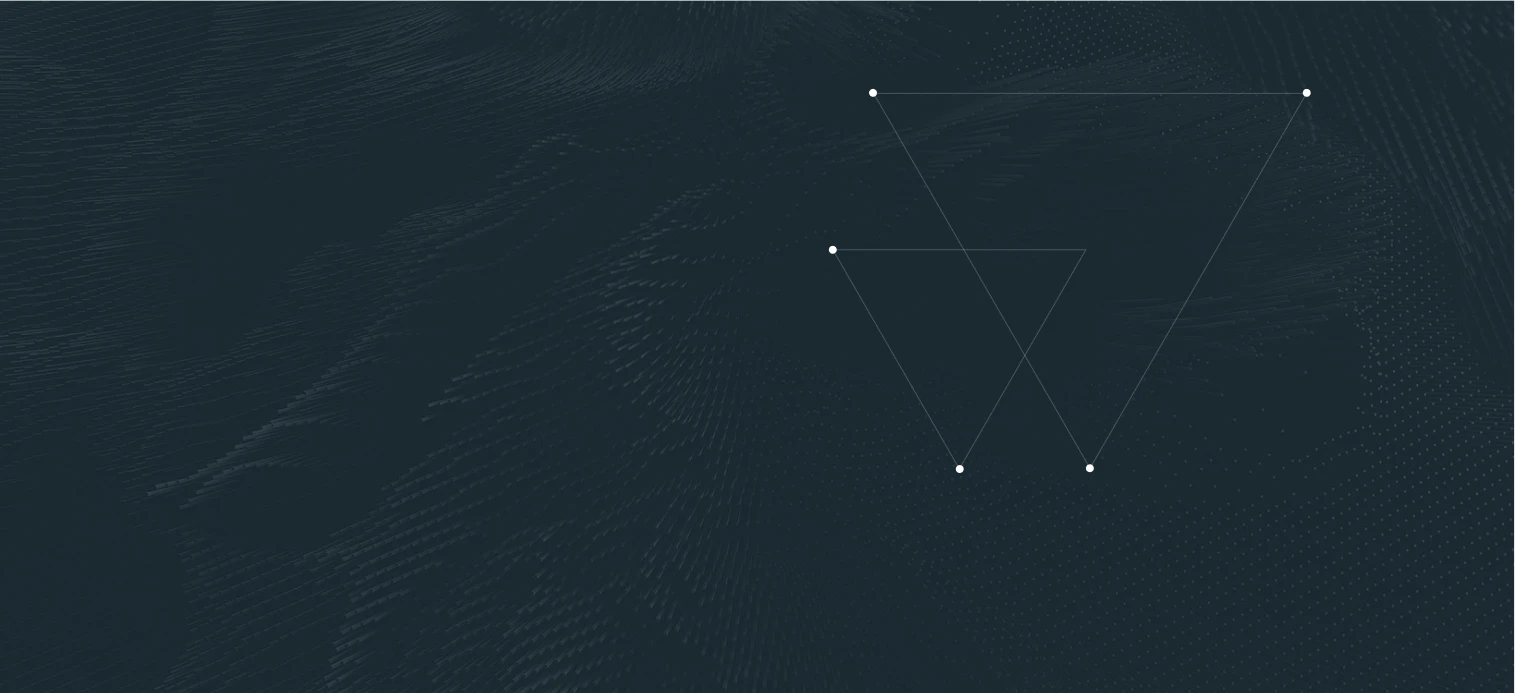
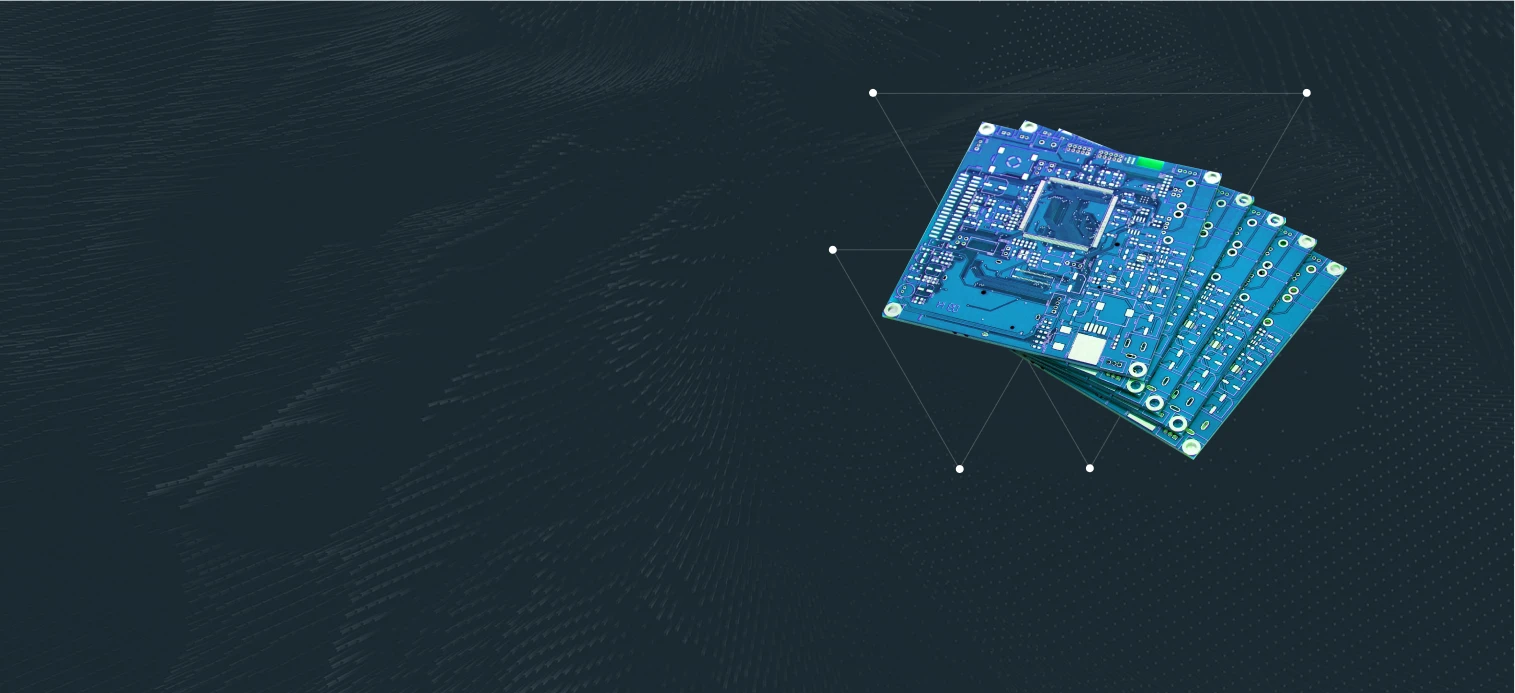
делает адаптив под планшет

Changed region(s): [[0.5584, 0.1818, 0.8997, 0.6667]]

diff --git a/build/css/style.min.css b/build/css/style.min.css
@@ -1,2 +1,2 @@
-*,::after,::before{-webkit-box-sizing:border-box;box-sizing:border-box}body{margin:0 auto;padding:0;font-family:"PT Mono",monospace,sans-serif;background-color:#fff}.visually-hidden{position:absolute;width:1px;height:1px;padding:0;clip:rect(1px,1px,1px,1px);border:0;overflow:hidden}@font-face{font-family:"PT Mono";font-weight:400;font-display:swap;src:url(../fonts/PTMono-Regular.woff) format("woff"),url(../fonts/PTMono-Regular.woff2) format("woff2")}@font-face{font-family:"Roboto Condensed";font-weight:700;font-display:swap;src:url(../fonts/RobotoCondensed-Bold.woff) format("woff"),url(../fonts/RobotoCondensed-Bold.woff2) format("woff2")}@font-face{font-family:"Roboto Condensed";font-weight:400;font-display:swap;src:url(../fonts/RobotoCondensed-Regular.woff) format("woff"),url(../fonts/RobotoCondensed-Regular.woff2) format("woff2")}.link-mixin{text-decoration:none;color:#fff}.desktop-wrapper{padding:0 calc(50% - 705px)}.page-header,.page-header-contacts-wrapper{display:-webkit-box;display:-ms-flexbox;display:flex}.page-header{min-height:878px;-webkit-box-orient:vertical;-webkit-box-direction:normal;-ms-flex-direction:column;flex-direction:column;padding:35px 10px;background-image:url(../img/header-bg@1x.jpg);background-position:center 0}.page-header__logo{position:relative;margin-right:auto;padding-top:4px;padding-left:66px}.page-header__logo-icon{position:absolute;left:0;top:-2px}.page-header__logo-title{margin:0;font-family:"Roboto Condensed";font-weight:700;font-size:25px;line-height:28px;white-space:nowrap;color:#fff}.page-header__logo-caption{font-family:"Roboto";font-style:normal;font-weight:500;font-size:12px;line-height:14px;color:#788891}.page-header__contacts,.page-header__contacts-link{display:-webkit-box;display:-ms-flexbox;display:flex}.page-header__contacts{-webkit-box-align:center;-ms-flex-align:center;align-items:center}.page-header__contacts-link{margin-left:88px}.page-header__contacts-info{margin-left:16px}.page-header__contacts-call{display:block;margin-left:49px;padding:14px 32px;font-family:"Roboto Condensed";font-style:normal;font-weight:700;font-size:14px;line-height:16px;border:1px solid #fff;border-radius:6px}.promo{position:relative;margin-top:231px}.promo__description,.promo__title{max-width:720px;font-style:normal;color:#fff}.promo__title{margin:0 0 26px;letter-spacing:.07em;font-family:"Roboto Condensed";font-weight:700;font-size:80px;line-height:94px}.promo__description{position:relative;margin-top:0;margin-right:auto;margin-bottom:43px;padding-left:92px;font-family:"PT Mono";font-weight:400;font-size:22px;line-height:34px}.promo__description::before{content:"";position:absolute;top:17px;left:0;width:66px;height:2px;background-color:#fff}.promo__button{margin-left:92px;padding:18px 45px;font-family:"Roboto Condensed";font-style:normal;font-weight:700;font-size:16px;line-height:19px;text-align:center;letter-spacing:.05em;color:#fff;background-color:#00b2ff;border:0;border-radius:3px}.promo__image{position:absolute;top:-58px;right:-72px}
+*,::after,::before{-webkit-box-sizing:border-box;box-sizing:border-box}body{margin:0 auto;padding:0;font-family:"PT Mono",monospace,sans-serif;background-color:#fff}.visually-hidden{position:absolute;width:1px;height:1px;padding:0;clip:rect(1px,1px,1px,1px);border:0;overflow:hidden}@font-face{font-family:"PT Mono";font-weight:400;font-display:swap;src:url(../fonts/PTMono-Regular.woff) format("woff"),url(../fonts/PTMono-Regular.woff2) format("woff2")}@font-face{font-family:"Roboto Condensed";font-weight:700;font-display:swap;src:url(../fonts/RobotoCondensed-Bold.woff) format("woff"),url(../fonts/RobotoCondensed-Bold.woff2) format("woff2")}@font-face{font-family:"Roboto Condensed";font-weight:400;font-display:swap;src:url(../fonts/RobotoCondensed-Regular.woff) format("woff"),url(../fonts/RobotoCondensed-Regular.woff2) format("woff2")}.link-mixin{text-decoration:none;color:#fff}.desktop-wrapper{padding:0 calc(50% - 705px)}.page-header,.page-header-contacts-wrapper{display:-webkit-box;display:-ms-flexbox;display:flex}.page-header{min-height:878px;-webkit-box-orient:vertical;-webkit-box-direction:normal;-ms-flex-direction:column;flex-direction:column;padding:35px 10px;background-image:url(../img/header-bg-desktop@1x.jpg);background-position:center 0}@media (-webkit-min-device-pixel-ratio:1.5),(min-resolution:144dpi),(min-resolution:1.5dppx){.page-header{background-image:url(../img/header-bg-desktop@2x.jpg);background-size:1920px auto;background-position:center 0}}.page-header__logo{position:relative;margin-right:auto;padding-top:4px;padding-left:65px}.page-header__logo-icon{position:absolute;left:0;top:-2px}.page-header__contacts-icon-wrapper{font-size:0}.page-header__logo-title{margin:0;font-family:"Roboto Condensed";font-weight:700;font-size:25px;line-height:29px;white-space:nowrap;color:#fff}.page-header__logo-caption{font-family:"Roboto";font-style:normal;font-weight:500;font-size:12px;line-height:14px;color:#788891}.page-header__contacts,.page-header__contacts-link{display:-webkit-box;display:-ms-flexbox;display:flex}.page-header__contacts{-webkit-box-align:center;-ms-flex-align:center;align-items:center}.page-header__contacts-link{margin-left:88px}.page-header__contacts-info{margin-left:16px;font-family:"PT Mono";font-style:normal;font-weight:400;font-size:16px;line-height:18px}.page-header__contacts-call{display:block;margin-left:49px;padding:14px 27px;font-family:"Roboto Condensed";font-style:normal;font-weight:700;font-size:14px;line-height:16px;letter-spacing:.05em;border:1px solid #fff;border-radius:6px}@media (max-width:1024px){.page-header{padding:19px 23px;background-image:url(../img/header-bg-tablet@1x.jpg);background-position:center 0}.page-header__contacts-call,.page-header__contacts-info{display:none}.page-header__contacts-icon{width:25px;height:auto}.page-header__contacts-link{margin-left:32px}.page-header__logo{padding-top:6px;padding-left:70px}}.promo{position:relative;margin-top:231px}.promo__description,.promo__title{max-width:720px;font-style:normal;color:#fff}.promo__title{margin:0 0 26px;letter-spacing:.07em;font-family:"Roboto Condensed";font-weight:700;font-size:80px;line-height:94px}.promo__description{position:relative;margin-top:0;margin-right:auto;margin-bottom:43px;padding-left:92px;font-family:"PT Mono";font-weight:400;font-size:22px;line-height:34px}.promo__description::before{content:"";position:absolute;top:17px;left:0;width:66px;height:2px;background-color:#fff}.promo__button{margin-left:92px;padding:18px 45px;font-family:"Roboto Condensed";font-style:normal;font-weight:700;font-size:16px;line-height:19px;text-align:center;letter-spacing:.05em;color:#fff;background-color:#00b2ff;border:0;border-radius:3px}.promo__button:hover{-webkit-box-shadow:0 0 3px 3px #fafafa;box-shadow:0 0 3px 3px #fafafa}.promo__image{position:absolute;top:-58px;right:-72px}@media (max-width:1024px){.promo{margin-top:118px}.promo__title{max-width:545px;padding-left:65px;font-size:60px;line-height:70px}.promo__description{max-width:545px;margin-left:65px;margin-bottom:56px;padding-left:50px;font-size:18px;line-height:156.8%}.promo__description::before{width:32px}.promo__button{margin-left:116px;padding:18px 31px}}
 /*# sourceMappingURL=style.min.css.map */

diff --git a/build/index.html b/build/index.html
@@ -63,8 +63,8 @@
     <h1 class="visually-hidden">шапка страницы</h1>
     <div class="page-header-contacts-wrapper desktop-wrapper">
       <div class="page-header__logo">
-        <span class="page-header__logo-icon">
-          <svg width="52" height="52">
+        <span class="page-header__logo-icon-wrapper">
+          <svg class="page-header__logo-icon" width="52" height="52">
             <use xlink:href="#icon-mind"></use>
           </svg>
         </span>
@@ -74,16 +74,16 @@
 
       <section class="page-header__contacts">
         <a class="page-header__contacts-link page-header__contacts-link--mail link-mixin" href="mailto:info@sd.ru">
-          <span class="page-header__contacts-icon">
-            <svg width="18" height="14">
+          <span class="page-header__contacts-icon-wrapper">
+            <svg class="page-header__contacts-icon" width="18" height="18">
               <use xlink:href="#icon-mail"></use>
             </svg>
           </span>
           <span class="page-header__contacts-info">info@sd.ru</span>
         </a>
         <a class="page-header__contacts-link page-header__contacts-link--tel link-mixin" href="tel:+74950005252">
-          <span class="page-header__contacts-icon">
-            <svg width="18" height="18">
+          <span class="page-header__contacts-icon-wrapper">
+            <svg class="page-header__contacts-icon" width="18" height="18">
               <use xlink:href="#icon-tel"></use>
             </svg>
           </span>
@@ -97,7 +97,7 @@
       <h2 class="promo__title">ПЕЧАТНЫЕ ПЛАТЫ</h2>
       <p class="promo__description">производство и монтаж, поставка комплектующих, блоков и модулей</p>
       <button class="promo__button" type="button">ПОЛУЧИТЬ БЕСПЛАТНУЮ КОНСУЛЬТАЦИЮ</button>
-      <picture>
+      <!-- <picture>
         <source type="image/webp" media="(min-width: 1150px)" srcset="./img/microplate-desktop@1x.webp, ./img/microplate-desktop@2x.webp 2x">
         <source type="image/webp" media="(min-width: 768px)" srcset="./img/microplate-tablet@1x.webp, ./img/microplate-tablet@2x.webp 2x">
         <source type="image/webp" media="(min-width: 320px)" srcset="./img/microplate-mobile@1x.webp, ./img/microplate-mobile@2x.webp 2x">
@@ -107,8 +107,8 @@
         <source media="(min-width: 320px)" srcset="./img/microplate-mobile@1x.jpg, ./img/microplate-mobile@2x.jpg 2x">
         <img class="promo__image" src="./img/microplate-desktop@1x.jpg" alt="microplate">
       </picture>
-    </section>
-  </header>
+    </section> -->
+  </section></header>
 
   <script src="./js/main.js"></script>
 </body>

diff --git a/source/index.html b/source/index.html
@@ -16,8 +16,8 @@
     <h1 class="visually-hidden">шапка страницы</h1>
     <div class="page-header-contacts-wrapper desktop-wrapper">
       <div class="page-header__logo">
-        <span class="page-header__logo-icon">
-          <svg width="52" height="52">
+        <span class="page-header__logo-icon-wrapper">
+          <svg class="page-header__logo-icon" width="52" height="52">
             <use xlink:href="#icon-mind"></use>
           </svg>
         </span>
@@ -27,16 +27,16 @@
 
       <section class="page-header__contacts">
         <a class="page-header__contacts-link page-header__contacts-link--mail link-mixin" href="mailto:info@sd.ru">
-          <span class="page-header__contacts-icon">
-            <svg width="18" height="14">
+          <span class="page-header__contacts-icon-wrapper">
+            <svg class="page-header__contacts-icon" width="18" height="18">
               <use xlink:href="#icon-mail"></use>
             </svg>
           </span>
           <span class="page-header__contacts-info">info@sd.ru</span>
         </a>
         <a class="page-header__contacts-link page-header__contacts-link--tel link-mixin" href="tel:+74950005252">
-          <span class="page-header__contacts-icon">
-            <svg width="18" height="18">
+          <span class="page-header__contacts-icon-wrapper">
+            <svg class="page-header__contacts-icon"  width="18" height="18">
               <use xlink:href="#icon-tel"></use>
             </svg>
           </span>
@@ -50,7 +50,7 @@
       <h2 class="promo__title" >ПЕЧАТНЫЕ ПЛАТЫ</h2>
       <p class="promo__description">производство и монтаж, поставка комплектующих, блоков и модулей</p>
       <button class="promo__button" type="button">ПОЛУЧИТЬ БЕСПЛАТНУЮ КОНСУЛЬТАЦИЮ</button>
-      <picture>
+      <!-- <picture>
         <source type="image/webp" media="(min-width: 1150px)" srcset="./img/microplate-desktop@1x.webp, ./img/microplate-desktop@2x.webp 2x">
         <source type="image/webp" media="(min-width: 768px)" srcset="./img/microplate-tablet@1x.webp, ./img/microplate-tablet@2x.webp 2x">
         <source type="image/webp" media="(min-width: 320px)" srcset="./img/microplate-mobile@1x.webp, ./img/microplate-mobile@2x.webp 2x">
@@ -60,7 +60,7 @@
         <source media="(min-width: 320px)" srcset="./img/microplate-mobile@1x.jpg, ./img/microplate-mobile@2x.jpg 2x">
         <img class="promo__image" src="./img/microplate-desktop@1x.jpg" alt="microplate">
       </picture>
-    </section>
+    </section> -->
   </header>
 
   <script src="./js/main.js"></script>

diff --git a/source/sass/page-header.scss b/source/sass/page-header.scss
@@ -9,8 +9,14 @@
 
   padding: 35px 10px;
 
-  background-image: url('../img/header-bg@1x.jpg');
+  background-image: url('../img/header-bg-desktop@1x.jpg');
   background-position: center 0;
+
+  @media (min-resolution: $retina-dpi), (min-resolution: $retina-dppx) {
+    background-image: url('../img/header-bg-desktop@2x.jpg');
+    background-size: 1920px auto;
+    background-position: center 0;
+  }
 }
 
 .page-header__logo {
@@ -19,7 +25,7 @@
 
   margin-right: auto;
   padding-top: 4px;
-  padding-left: 66px;
+  padding-left: 65px;
 }
 
 .page-header__logo-icon {
@@ -28,13 +34,17 @@
   top: -2px;
 }
 
+.page-header__contacts-icon-wrapper {
+  font-size: 0;
+}
+
 .page-header__logo-title {
   margin: 0;
 
   font-family: "Roboto Condensed";
   font-weight: bold;
   font-size: 25px;
-  line-height: 28px;
+  line-height: 29px;
   white-space: nowrap;
   color: $white;
 }
@@ -60,19 +70,56 @@
 
 .page-header__contacts-info {
   margin-left: 16px;
+
+  font-family: "PT Mono";
+  font-style: normal;
+  font-weight: normal;
+  font-size: 16px;
+  line-height: 18px;
 }
 
 .page-header__contacts-call {
   display: block;
 
   margin-left: 49px;
-  padding: 14px 32px;
+  padding: 14px 27px;
 
   font-family: "Roboto Condensed";
   font-style: normal;
   font-weight: bold;
   font-size: 14px;
   line-height: 16px;
+  letter-spacing: 0.05em;
   border: 1px solid $white;
   border-radius: 6px;
+}
+
+@media (max-width: $tablet-max-width) {
+  .page-header {
+    padding: 19px 23px;
+    background-image: url('../img/header-bg-tablet@1x.jpg');
+    background-position: center 0;
+  }
+
+  .page-header__contacts-info {
+    display: none;
+  }
+
+  .page-header__contacts-call {
+    display: none;
+  }
+
+  .page-header__contacts-icon {
+    width: 25px;
+    height: auto;
+  }
+
+  .page-header__contacts-link {
+    margin-left: 32px;
+  }
+
+  .page-header__logo {
+    padding-top: 6px;
+    padding-left: 70px;
+  }
 }

diff --git a/source/sass/promo.scss b/source/sass/promo.scss
@@ -63,11 +63,48 @@
   background-color: $blue;
   border: none;
   border-radius: 3px;
+
+
+  &:hover {
+    box-shadow: 0 0 3px 3px $milk-white;
+  }
 }
 
 .promo__image {
   position: absolute;
   top: -58px;
   right: -72px;
+}
 
+@media (max-width: $tablet-max-width) {
+  .promo {
+    margin-top: 118px;
+  }
+
+  .promo__title {
+    max-width: 545px;
+    padding-left: 65px;
+
+    font-size: 60px;
+    line-height: 70px;
+  }
+
+  .promo__description {
+    max-width: 545px;
+    margin-left: 65px;
+    margin-bottom: 56px;
+    padding-left: 50px;
+
+    font-size: 18px;
+    line-height: 156.8%;
+
+    &::before {
+      width: 32px;
+    }
+  }
+
+  .promo__button {
+    margin-left: 116px;
+    padding: 18px 31px;
+  }
 }

diff --git a/source/sass/variables.scss b/source/sass/variables.scss
@@ -2,8 +2,8 @@
 // size
 $mobile-min-width: 320px;
 $mobile-max-width: 767px;
-$tablet-width: 768px;
-$desktop-min-width: 1024px;
+$tablet-min-width: 768px;
+$tablet-max-width: 1024px;
 $retina-dpi: 144dpi;
 $retina-dppx: 1.5dppx;
 
